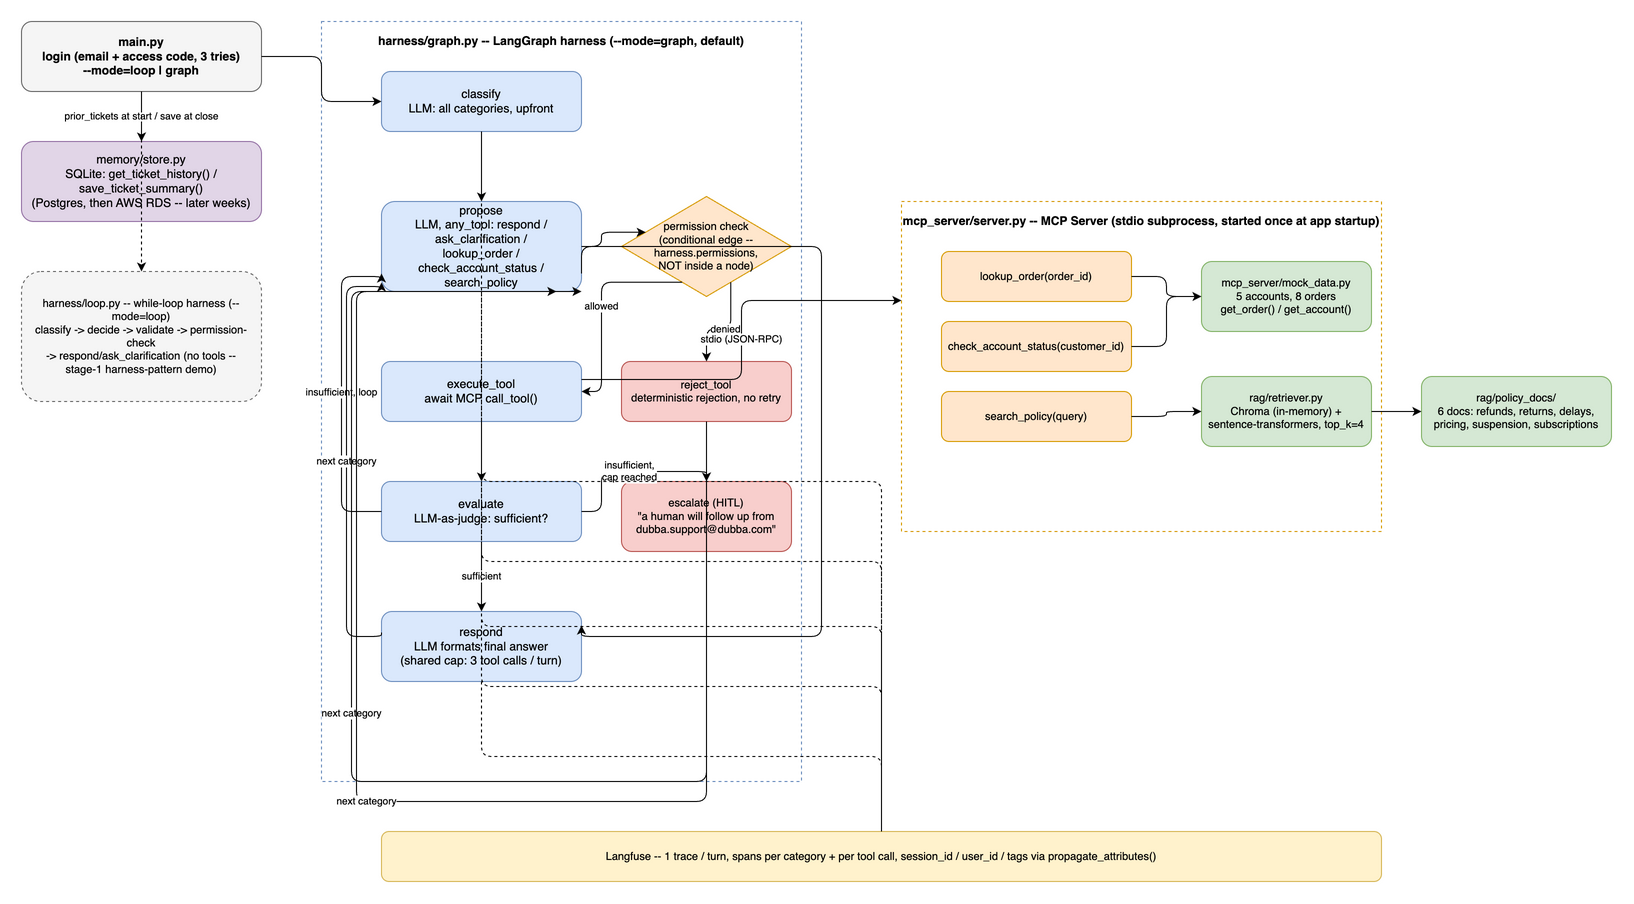
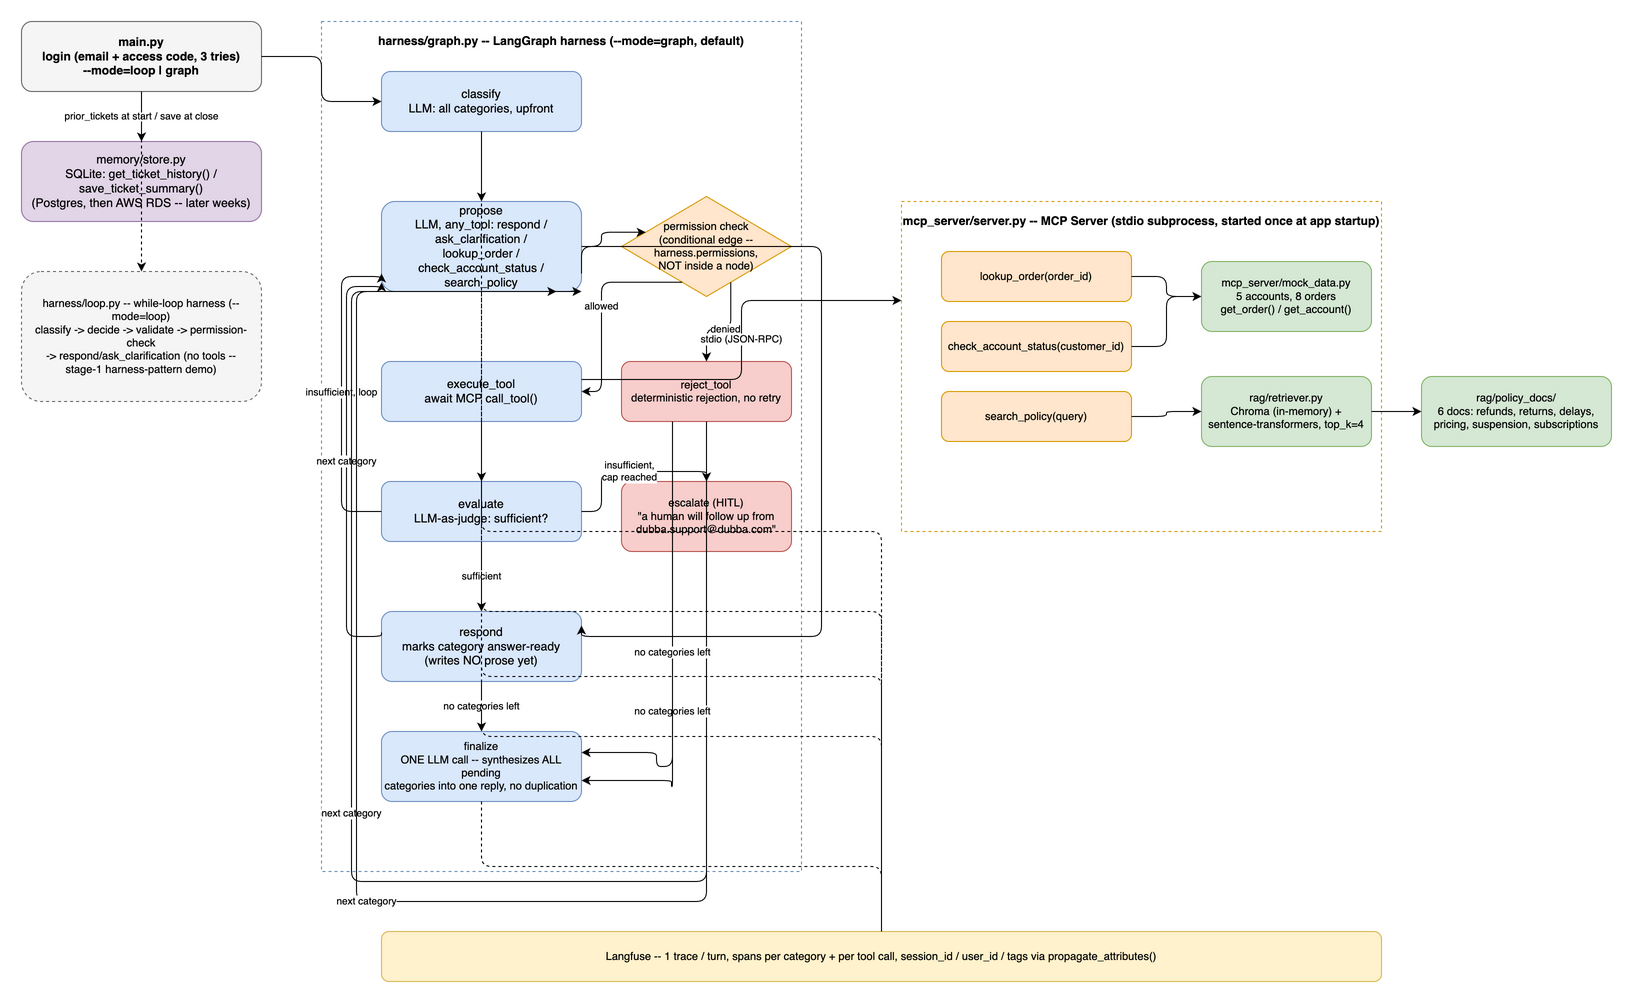
fix: defer all response-writing until every category has finished gathering
Real bug from live testing: "candle arrived with wick broken, refund" split into
delivery_issue and refund_request, both now correctly saw the same search_policy
result (previous commit), but each still independently called respond and wrote
its own near-full answer -- shown twice, one after another.

Root cause: respond ran per-category, interleaved with other categories' own
gathering, with no awareness of what another category had already said.

Fix (reverses the earlier "respond runs per category" decision for the
prose-writing step specifically): respond_node no longer writes customer-facing
text. It marks a category answer-ready (pending_response_categories) and moves on
-- ask_clarification stays immediate since it's short/category-specific. A new
finalize_node runs once, after every category has finished gathering, and writes
ONE LLM-synthesized reply covering every pending category together, instructed
not to repeat the same explanation/ask twice. All evaluate/tool-call work for
every category now genuinely finishes before any prose is written, for any
category -- not interleaved.

Updated the architecture diagram and README's node table for the new finalize node.

diff --git a/harness/graph.py b/harness/graph.py
@@ -18,6 +18,16 @@ up "damaged item -> refund eligibility" via search_policy, refund_request (the s
 underlying issue, processed right after) sees that result too instead of redundantly
 re-discovering it against its own share of the shrinking cap. Neither resets between
 categories, only at the start of a new turn (classify_node).
+
+respond does NOT write customer-facing prose per category. It only decides, per
+category, whether that category is answerable (deferred to pending_response_categories)
+or needs a clarifying question (written immediately -- short, category-specific,
+low duplication risk). Once every category has been through the loop, finalize runs
+ONE LLM call covering every pending category together -- this is what stops two
+categories about the same underlying issue (e.g. delivery_issue + refund_request for
+one damaged candle) from each independently writing near-identical prose. All
+evaluate/tool-call work for every category finishes before any prose is written, not
+interleaved category-by-category.
 """
 
 from typing import TypedDict
@@ -65,6 +75,7 @@ class TicketState(TypedDict):
     tool_call_count: int
     turn_tool_results: list[dict]
     proposed_action: dict | None
+    pending_response_categories: list[str]
     final_actions: list[dict]
     sufficient: bool
 
@@ -189,6 +200,7 @@ def classify_node(state: TicketState) -> dict:
         "category_index": 0,
         "tool_call_count": 0,
         "turn_tool_results": [],
+        "pending_response_categories": [],
         "final_actions": [],
     }
 
@@ -311,37 +323,51 @@ def route_after_evaluate(state: TicketState) -> str:
 
 
 def respond_node(state: TicketState) -> dict:
+    """Does NOT write customer-facing prose -- that's finalize_node's job, once,
+    after every category has been through this loop. ask_clarification is the one
+    exception: it's short, category-specific, and propose already wrote its exact
+    text, so there's nothing to defer or dedupe."""
     category = state["categories"][state["category_index"]]
     action = state["proposed_action"]
-    # action is None when respond is reached via evaluate -> respond (proposed_action
-    # was already cleared by execute_tool_node after the last tool call) -- that path
-    # always needs the LLM formatting call below, same as a fresh "respond" proposal.
-    # Only a direct propose -> respond with ask_clarification skips it.
-    if action is not None and action["action_type"] == "ask_clarification":
-        message = action["message"]
-    else:
-        system = (
-            f"{prompts.RESPOND_SYSTEM_PROMPT}\n\n"
-            f"Category: {category}\n"
-            f"Gathered data, THIS TURN, across all categories: {state['turn_tool_results']}"
-        )
-        langfuse = get_client()
-        with langfuse.start_as_current_observation(
-            name="respond-format", as_type="generation", model=llm_client.PRIMARY_MODEL
-        ) as gen:
-            gen.update(input=state["user_message"])
-            response = llm_client.complete(
-                system=system,
-                messages=state["short_term_buffer"],
-            )
-            message = response.text
-            gen.update(
-                output=message,
-                model=response.model,
-                usage_details={"input": response.input_tokens, "output": response.output_tokens},
-            )
 
-    return _advance(state, category, message)
+    if action is not None and action["action_type"] == "ask_clarification":
+        return _advance(state, category, action["message"])
+
+    return {
+        "pending_response_categories": state["pending_response_categories"] + [category],
+        "category_index": state["category_index"] + 1,
+        "proposed_action": None,
+    }
+
+
+def finalize_node(state: TicketState) -> dict:
+    """The ONE LLM call that writes customer-facing prose, covering every category
+    in pending_response_categories together. This is what stops two categories about
+    the same underlying issue (e.g. delivery_issue + refund_request for one damaged
+    candle) from each independently producing near-identical text -- all gathering
+    (propose/execute_tool/evaluate) for every category is done before this runs."""
+    pending = state["pending_response_categories"]
+    system = (
+        f"{prompts.RESPOND_SYSTEM_PROMPT}\n\n"
+        f"Categories to answer together, in ONE reply: {pending}\n"
+        f"Gathered data, THIS TURN, across all categories: {state['turn_tool_results']}"
+    )
+
+    langfuse = get_client()
+    with langfuse.start_as_current_observation(
+        name="finalize-response", as_type="generation", model=llm_client.PRIMARY_MODEL
+    ) as gen:
+        gen.update(input=state["user_message"])
+        response = llm_client.complete(system=system, messages=state["short_term_buffer"])
+        message = response.text
+        gen.update(
+            output=message,
+            model=response.model,
+            usage_details={"input": response.input_tokens, "output": response.output_tokens},
+        )
+
+    label = " & ".join(c.replace("_", " ").title() for c in pending)
+    return {"final_actions": state["final_actions"] + [{"category": label, "message": message}]}
 
 
 def escalate_node(state: TicketState) -> dict:
@@ -371,6 +397,8 @@ def reject_tool_node(state: TicketState) -> dict:
 def route_after_category(state: TicketState) -> str:
     if state["category_index"] < len(state["categories"]):
         return "propose"
+    if state["pending_response_categories"]:
+        return "finalize"
     return END
 
 
@@ -381,6 +409,7 @@ def build_graph():
     workflow.add_node("execute_tool", execute_tool_node)
     workflow.add_node("evaluate", evaluate_node)
     workflow.add_node("respond", respond_node)
+    workflow.add_node("finalize", finalize_node)
     workflow.add_node("escalate", escalate_node)
     workflow.add_node("reject_tool", reject_tool_node)
 
@@ -397,9 +426,16 @@ def build_graph():
         route_after_evaluate,
         {"respond": "respond", "propose": "propose", "escalate": "escalate"},
     )
-    workflow.add_conditional_edges("respond", route_after_category, {"propose": "propose", END: END})
-    workflow.add_conditional_edges("escalate", route_after_category, {"propose": "propose", END: END})
-    workflow.add_conditional_edges("reject_tool", route_after_category, {"propose": "propose", END: END})
+    workflow.add_conditional_edges(
+        "respond", route_after_category, {"propose": "propose", "finalize": "finalize", END: END}
+    )
+    workflow.add_conditional_edges(
+        "escalate", route_after_category, {"propose": "propose", "finalize": "finalize", END: END}
+    )
+    workflow.add_conditional_edges(
+        "reject_tool", route_after_category, {"propose": "propose", "finalize": "finalize", END: END}
+    )
+    workflow.add_edge("finalize", END)
 
     return workflow.compile()
 
@@ -436,6 +472,7 @@ async def run_turn(session: dict, user_message: str) -> str:
                 "tool_call_count": 0,
                 "turn_tool_results": [],
                 "proposed_action": None,
+                "pending_response_categories": [],
                 "final_actions": [],
                 "sufficient": False,
             }

diff --git a/harness/prompts.py b/harness/prompts.py
@@ -140,9 +140,17 @@ If the same or a near-duplicate chunk has already been retrieved for this catego
 treat that as a strong signal that this is all the available information -- another \
 search will not produce something new."""
 
-RESPOND_SYSTEM_PROMPT = """You are writing the final, customer-facing answer for one \
-ticket category of Dubba, an e-commerce support agent for hand-poured, \
-painting-inspired candles.
+RESPOND_SYSTEM_PROMPT = """You are writing the final, customer-facing answer for \
+Dubba, an e-commerce support agent for hand-poured, painting-inspired candles.
+
+You are given a list of ticket categories to answer TOGETHER, in ONE reply -- not \
+one answer per category. If two categories are about the same underlying issue \
+(e.g. delivery_issue and refund_request for one damaged candle), do not repeat the \
+same explanation or the same ask (like "send us photos") twice. Write it once, and \
+let it cover both. Only give separate treatment to categories that are genuinely \
+about different things (e.g. one candle's refund AND an unrelated subscription \
+question) -- and even then, keep it one cohesive message, not a list of disconnected \
+mini-answers.
 
 Use only the real data gathered (tool results) and conversation context you're \
 given -- never invented details. Write a clear, specific, friendly answer, \

diff --git a/README.md b/README.md
@@ -23,13 +23,18 @@ model never decides that on its own.
 | *(permission check)* | Not a node — a **conditional edge** (`route_after_propose`) between `propose` and `execute_tool`. Runs `harness/permissions.py` against the real session (does this order/customer ID belong to the logged-in customer?) before any tool call happens. |
 | `execute_tool` | Only reached if the permission check passed. Awaits the actual MCP tool call over stdio and records the result. |
 | `evaluate` | LLM-as-judge call. Given what's been gathered so far, decides whether there's enough to answer the customer, or whether another tool call is needed (capped at 3 tool calls total per turn, shared across all categories — not a per-category budget). |
-| `respond` | LLM call that formats the final, customer-facing answer from whatever real data was gathered. Also the exit point for `ask_clarification` (passed through as-is, no extra LLM call needed). |
+| `respond` | Does **not** write customer-facing prose. Marks the category as answer-ready (deferred to `finalize`) — except `ask_clarification`, which is passed through as-is immediately (short, category-specific, no duplication risk). |
 | `escalate` | Reached when `evaluate` still isn't satisfied and the tool-call cap is hit. Deterministic HITL message: a ticket is created, a human follows up from `dubba.support@dubba.com`, details arrive by email. |
 | `reject_tool` | Reached when the permission check denies a proposed tool call. Deterministic rejection message — no retry of a denied action within that category, ever. |
+| `finalize` | The **one** LLM call that writes customer-facing prose, once every category has been through the loop — covering every answer-ready category together in a single, non-repetitive reply. |
 
 Categories are processed one at a time: after `respond` / `escalate` / `reject_tool`,
-the graph loops back to `propose` for the next detected category, or ends the turn
-once all categories are handled.
+the graph loops back to `propose` for the next detected category. Once every category
+is done, `finalize` runs (if any are answer-ready) and the turn ends. All
+evaluate/tool-call work for every category finishes before any prose is written —
+this is what stops two categories about the same underlying issue (e.g. a damaged
+candle raising both `delivery_issue` and `refund_request`) from each independently
+writing near-identical answers.
 
 ## Prerequisites
 
